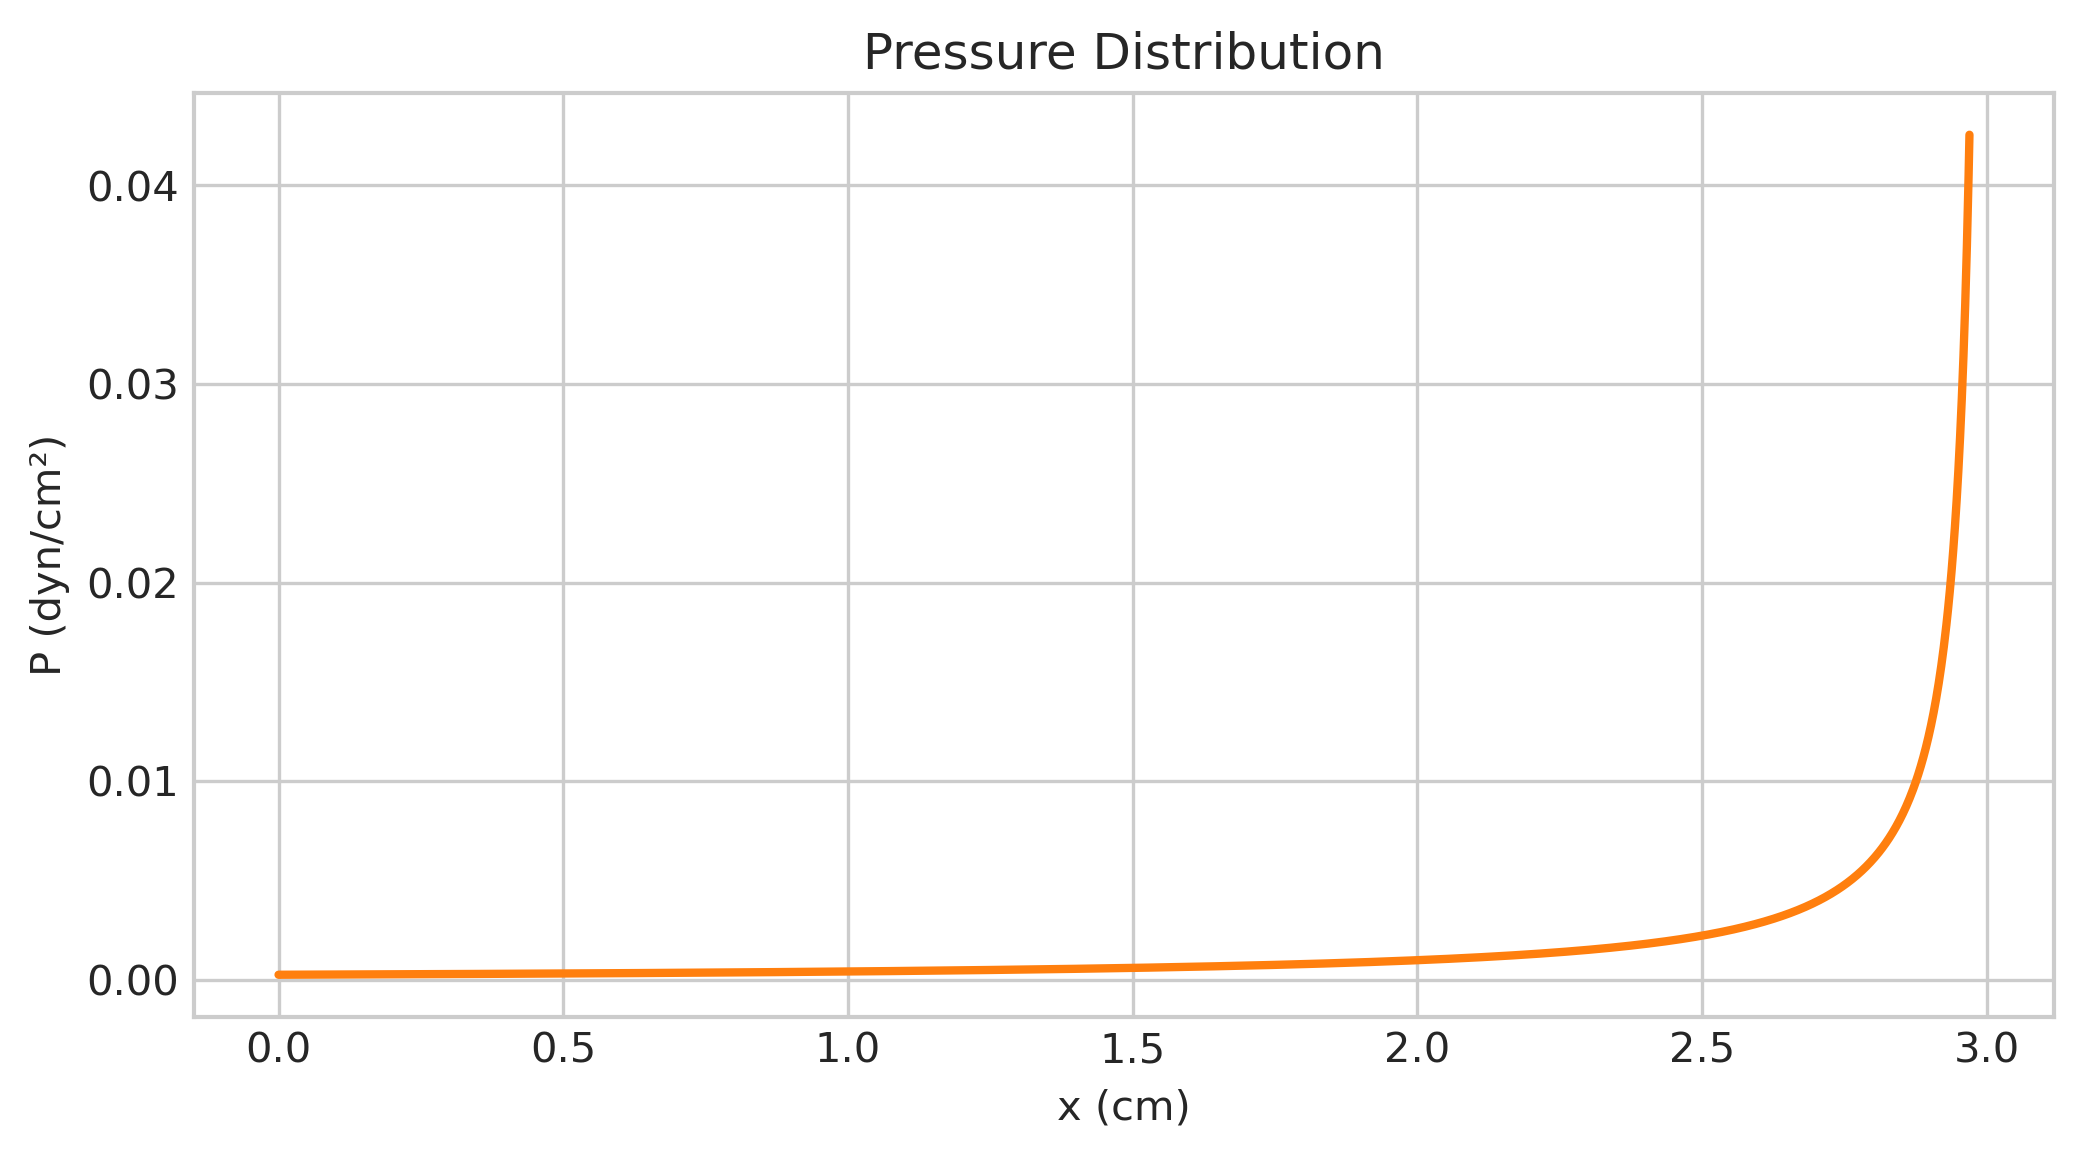
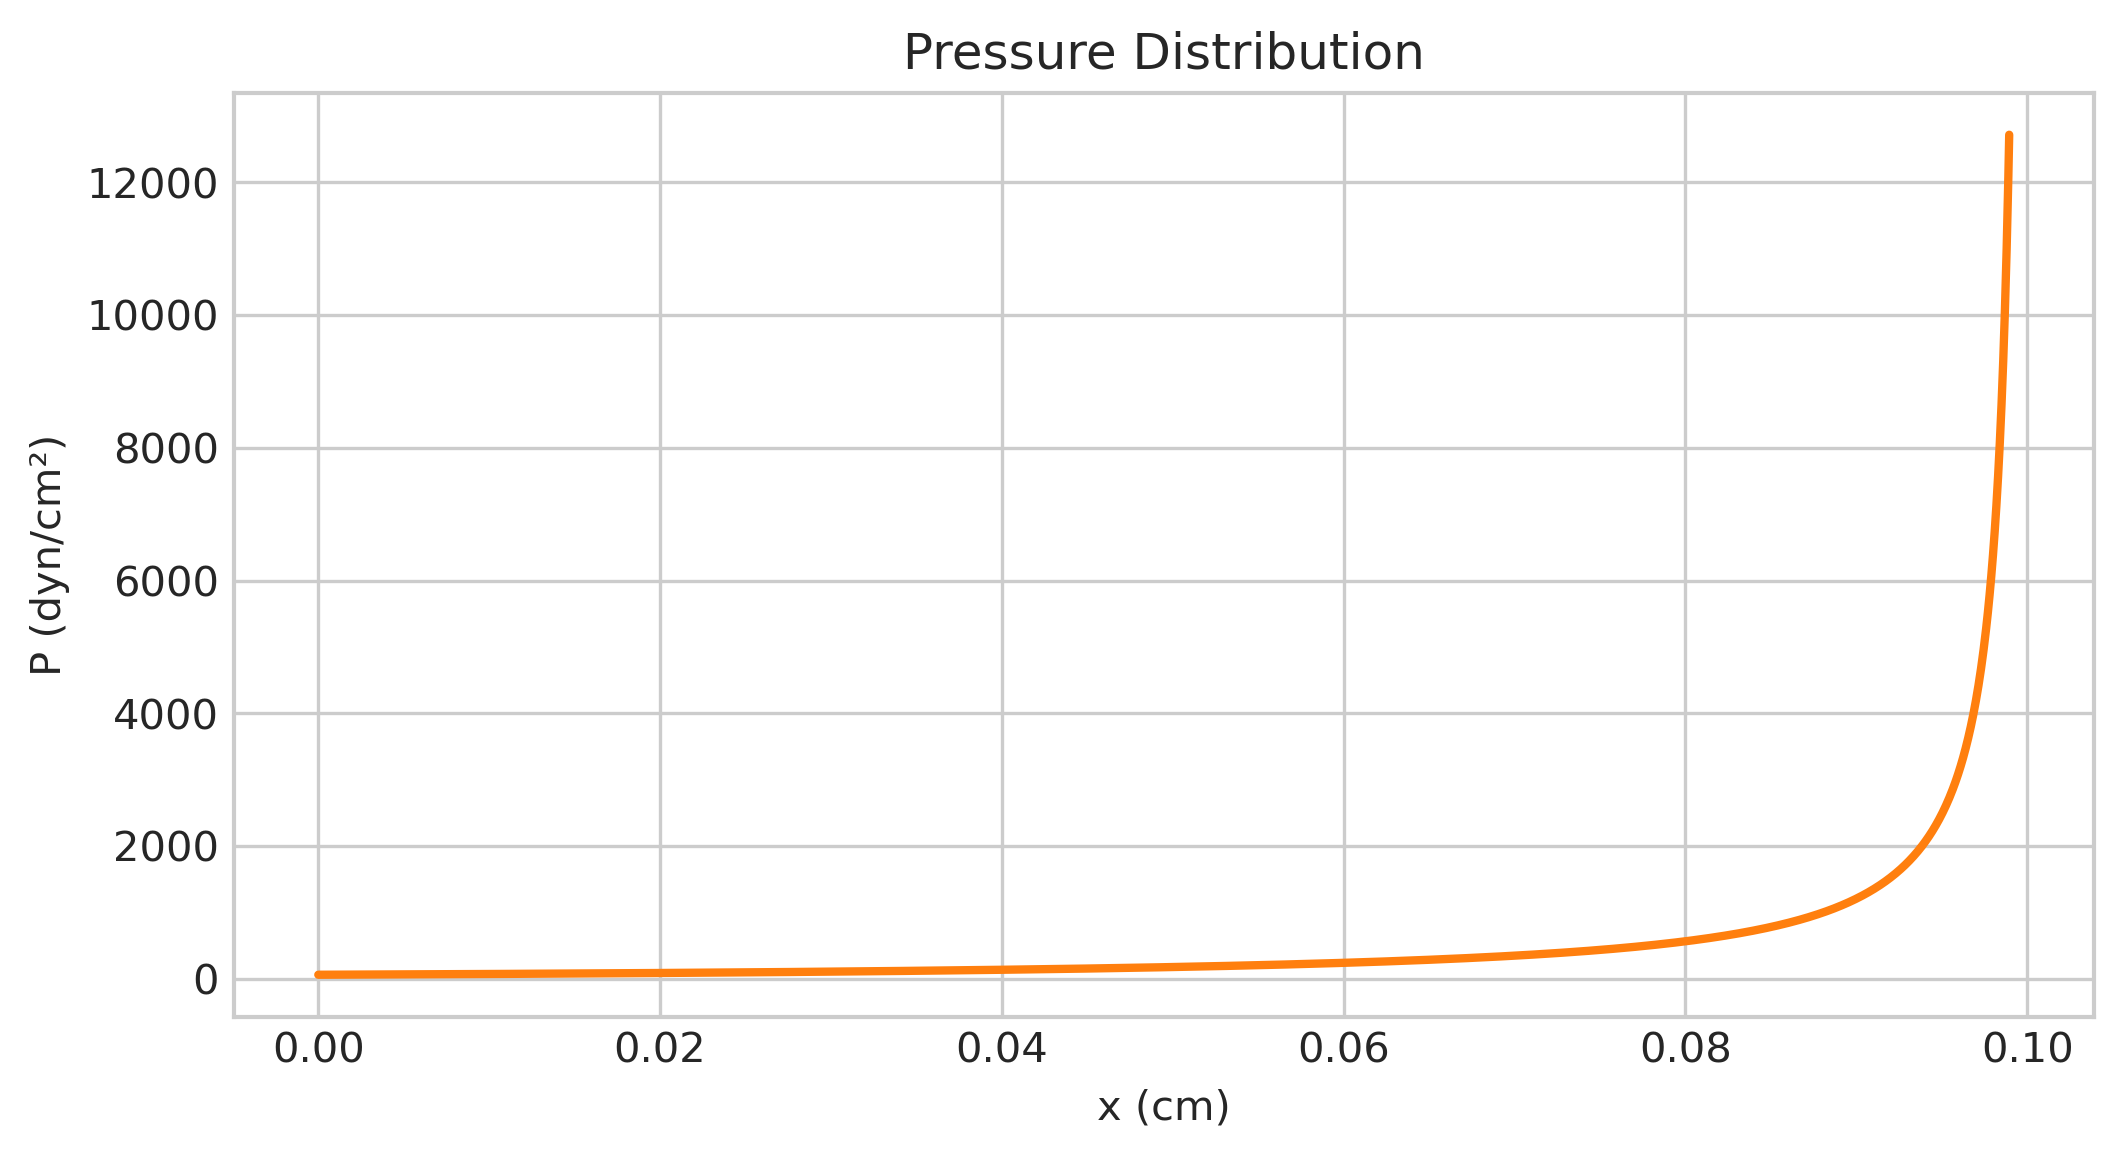
stashing working run before we add a velo plot

diff --git a/wedge/thin_film_solver.py b/wedge/thin_film_solver.py
@@ -6,12 +6,13 @@ import matplotlib.pyplot as plt
 
 @dataclass
 class FilmParams:
-    mu: float = 0.00386          # viscosity, poise = g/(cm·s)
-    gamma: float = 20.14         # surface tension, dyn/cm = g/s²
-    h0: float = 0.4              # initial film thickness, cm
-    v_web: float = 0.01          # web velocity, cm/s
+    # mu and gamma should be from the other sims, chloroform gamma, and mu from viscometer data
+    mu: float = .537          # viscosity, poise = g/(cm·s). # 100 * viscosity of chloroform
+    gamma: float = 27.1         # surface tension, dyn/cm = g/s² # chloroform
+    h0: float = 0.01              # initial film thickness, cm. # (50 microns-100 microns)
+    v_web: float = 0.0105          # web velocity, cm/s # (105 microns/s)
     beta: float = field(default_factory=lambda: np.radians(45))  # radians
-    L: float = 3.0               # domain length, cm
+    L: float = .1               # domain length, cm (maybe a few mm). 
     v_evap: float = field(init=False)
 
     def __post_init__(self):
@@ -22,7 +23,7 @@ def ode_system(x, y, params):
     p = params
     coeff = 3 * p.mu / p.gamma
     y0, y1, y2, y3 = y
-    h_safe = np.where(np.abs(y0) > 1e-12, y0, 1e-12)
+    h_safe = np.where(np.abs(y0) > 1e-8, y0, 1e-8)
     dy3 = (-y1 * y3 - coeff * (p.v_evap + p.v_web * np.sin(p.beta) * y1)) / h_safe
     return np.vstack([y1, y2, y3, dy3])
 
@@ -41,7 +42,7 @@ def boundary_conditions(ya, yb, params):
 
 def solve_bvp_problem(params):
     p = params
-    eps = 1e-6 * p.L
+    eps = 1e-3 * p.L
     x_mesh = np.linspace(0, p.L - eps, 500)
 
     # Initial guess: quadratic profile satisfying BCs 1, 2, 3
@@ -55,14 +56,14 @@ def solve_bvp_problem(params):
     bc_fn = lambda ya, yb: boundary_conditions(ya, yb, params)
 
     # Step 1: coarse solve to get a good initial guess
-    sol = solve_bvp(ode_fn, bc_fn, x_mesh, y_guess, tol=1e-3, max_nodes=50000)
+    sol = solve_bvp(ode_fn, bc_fn, x_mesh, y_guess, tol=1e-3, max_nodes=1_000_000)
     if not sol.success:
         print(f"WARNING: coarse solve_bvp did not converge: {sol.message}")
 
     # Step 2: refine from coarse solution
     # Note: h''''∝1/h diverges as h→0 at x=L, so tight tolerances require
     # exponentially many nodes there. tol=1e-3 is adequate for plotting.
-    sol2 = solve_bvp(ode_fn, bc_fn, sol.x, sol.y, tol=1e-5, max_nodes=200000)
+    sol2 = solve_bvp(ode_fn, bc_fn, sol.x, sol.y, tol=1e-5, max_nodes=2_000_000)
     if sol2.success:
         sol = sol2
         print("Refined solve succeeded.")
